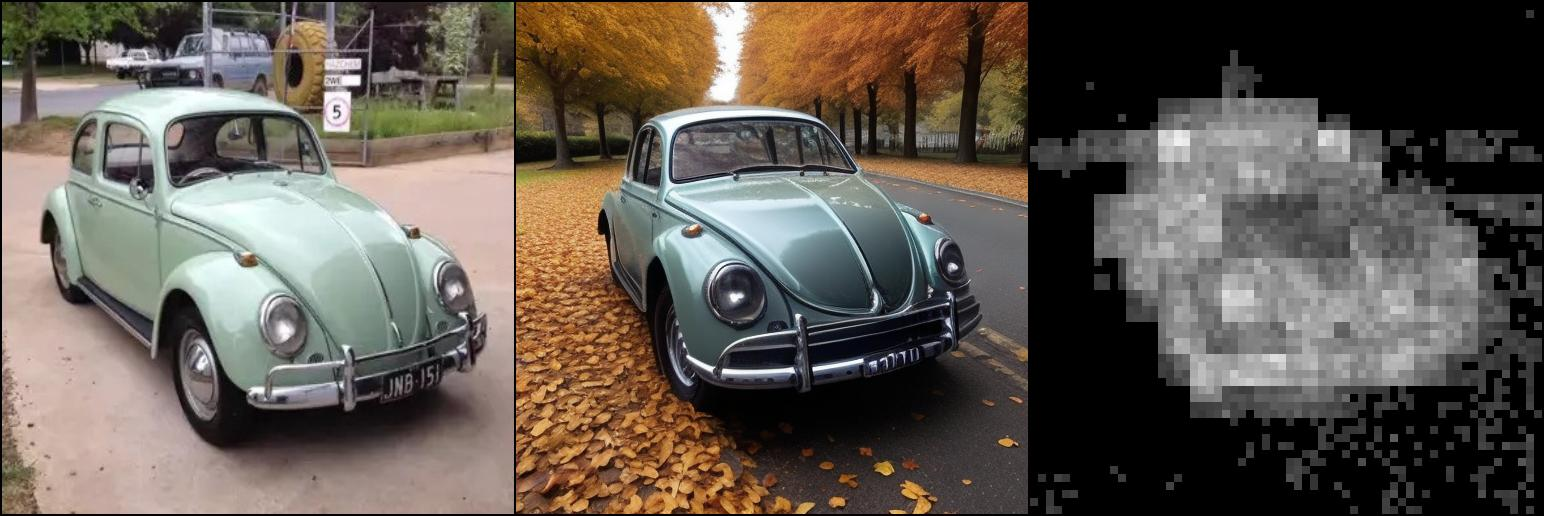
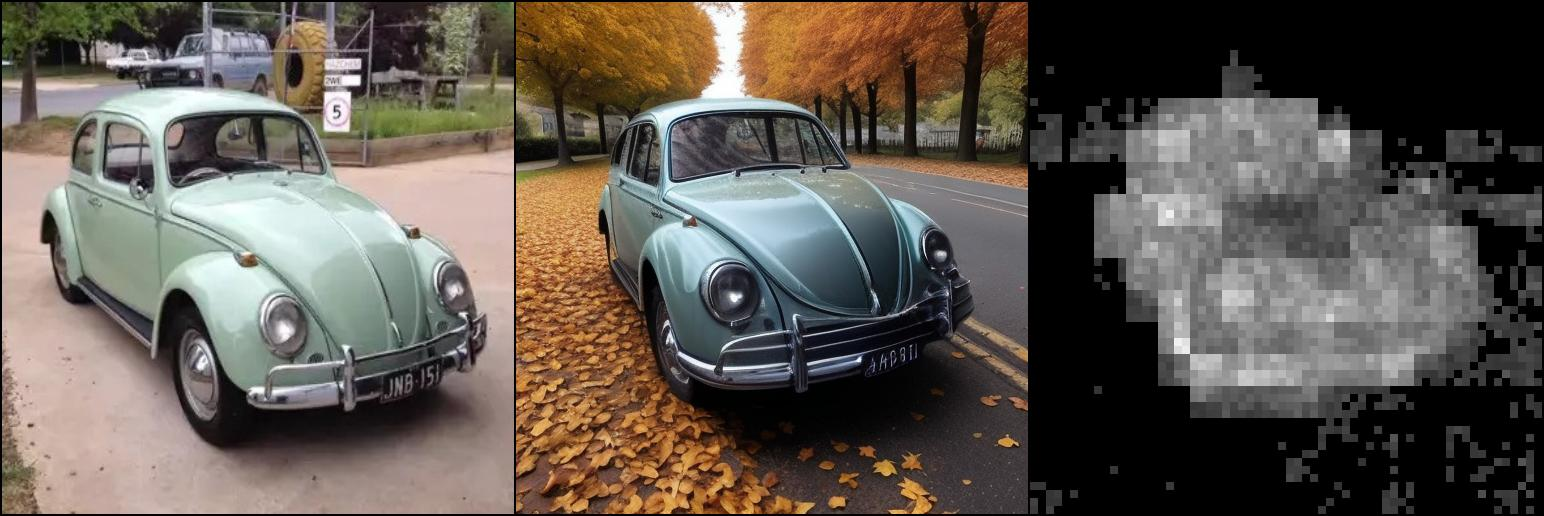
support 4 bit and 8 bit inference

diff --git a/run_evaluate_MoMA.py b/run_evaluate_MoMA.py
@@ -15,9 +15,20 @@ args = parse_args()
 args.device = torch.device("cuda", 0)
 args.model_path = "KunpengSong/MoMA_llava_7b"
 
+
+
+# if you have 22 Gb GPU memory:
+args.load_8bit, args.load_4bit = False, False
+
+# if you have 18 Gb GPU memory:
+# args.load_8bit, args.load_4bit = True, False
+
+# if you have 14 Gb GPU memory:
+# args.load_8bit, args.load_4bit = False, True
+
+
+
 #load MoMA from HuggingFace. Auto download
-args.load_8bit = True
-args.load_4bit = False
 moMA_main_modal = MoMA_main_modal(args).to(args.device, dtype=torch.bfloat16)
 
 
@@ -25,7 +36,6 @@ moMA_main_modal = MoMA_main_modal(args).to(args.device, dtype=torch.bfloat16)
 rgb_path = "example_images/newImages/3.jpg"
 mask_path = "example_images/newImages/3_mask.jpg"
 subject = 'car'
-
 
 
 # Let's generate new images!
@@ -37,7 +47,7 @@ save_image(generated_image,f"{args.output_path}/{subject}_{prompt}.jpg")
 
 ################ change texture ##################
 prompt = "A wooden sculpture of a car on the table."
-generated_image = moMA_main_modal.generate_images(rgb_path, mask_path, subject, prompt, strength=0.4, seed=3, return_mask=True)  # set strength to 0.4 for better prompt fidelity
+generated_image = moMA_main_modal.generate_images(rgb_path, mask_path, subject, prompt, strength=0.4, seed=4, return_mask=True)  # set strength to 0.4 for better prompt fidelity
 save_image(generated_image,f"{args.output_path}/{subject}_{prompt}.jpg")
 
 
